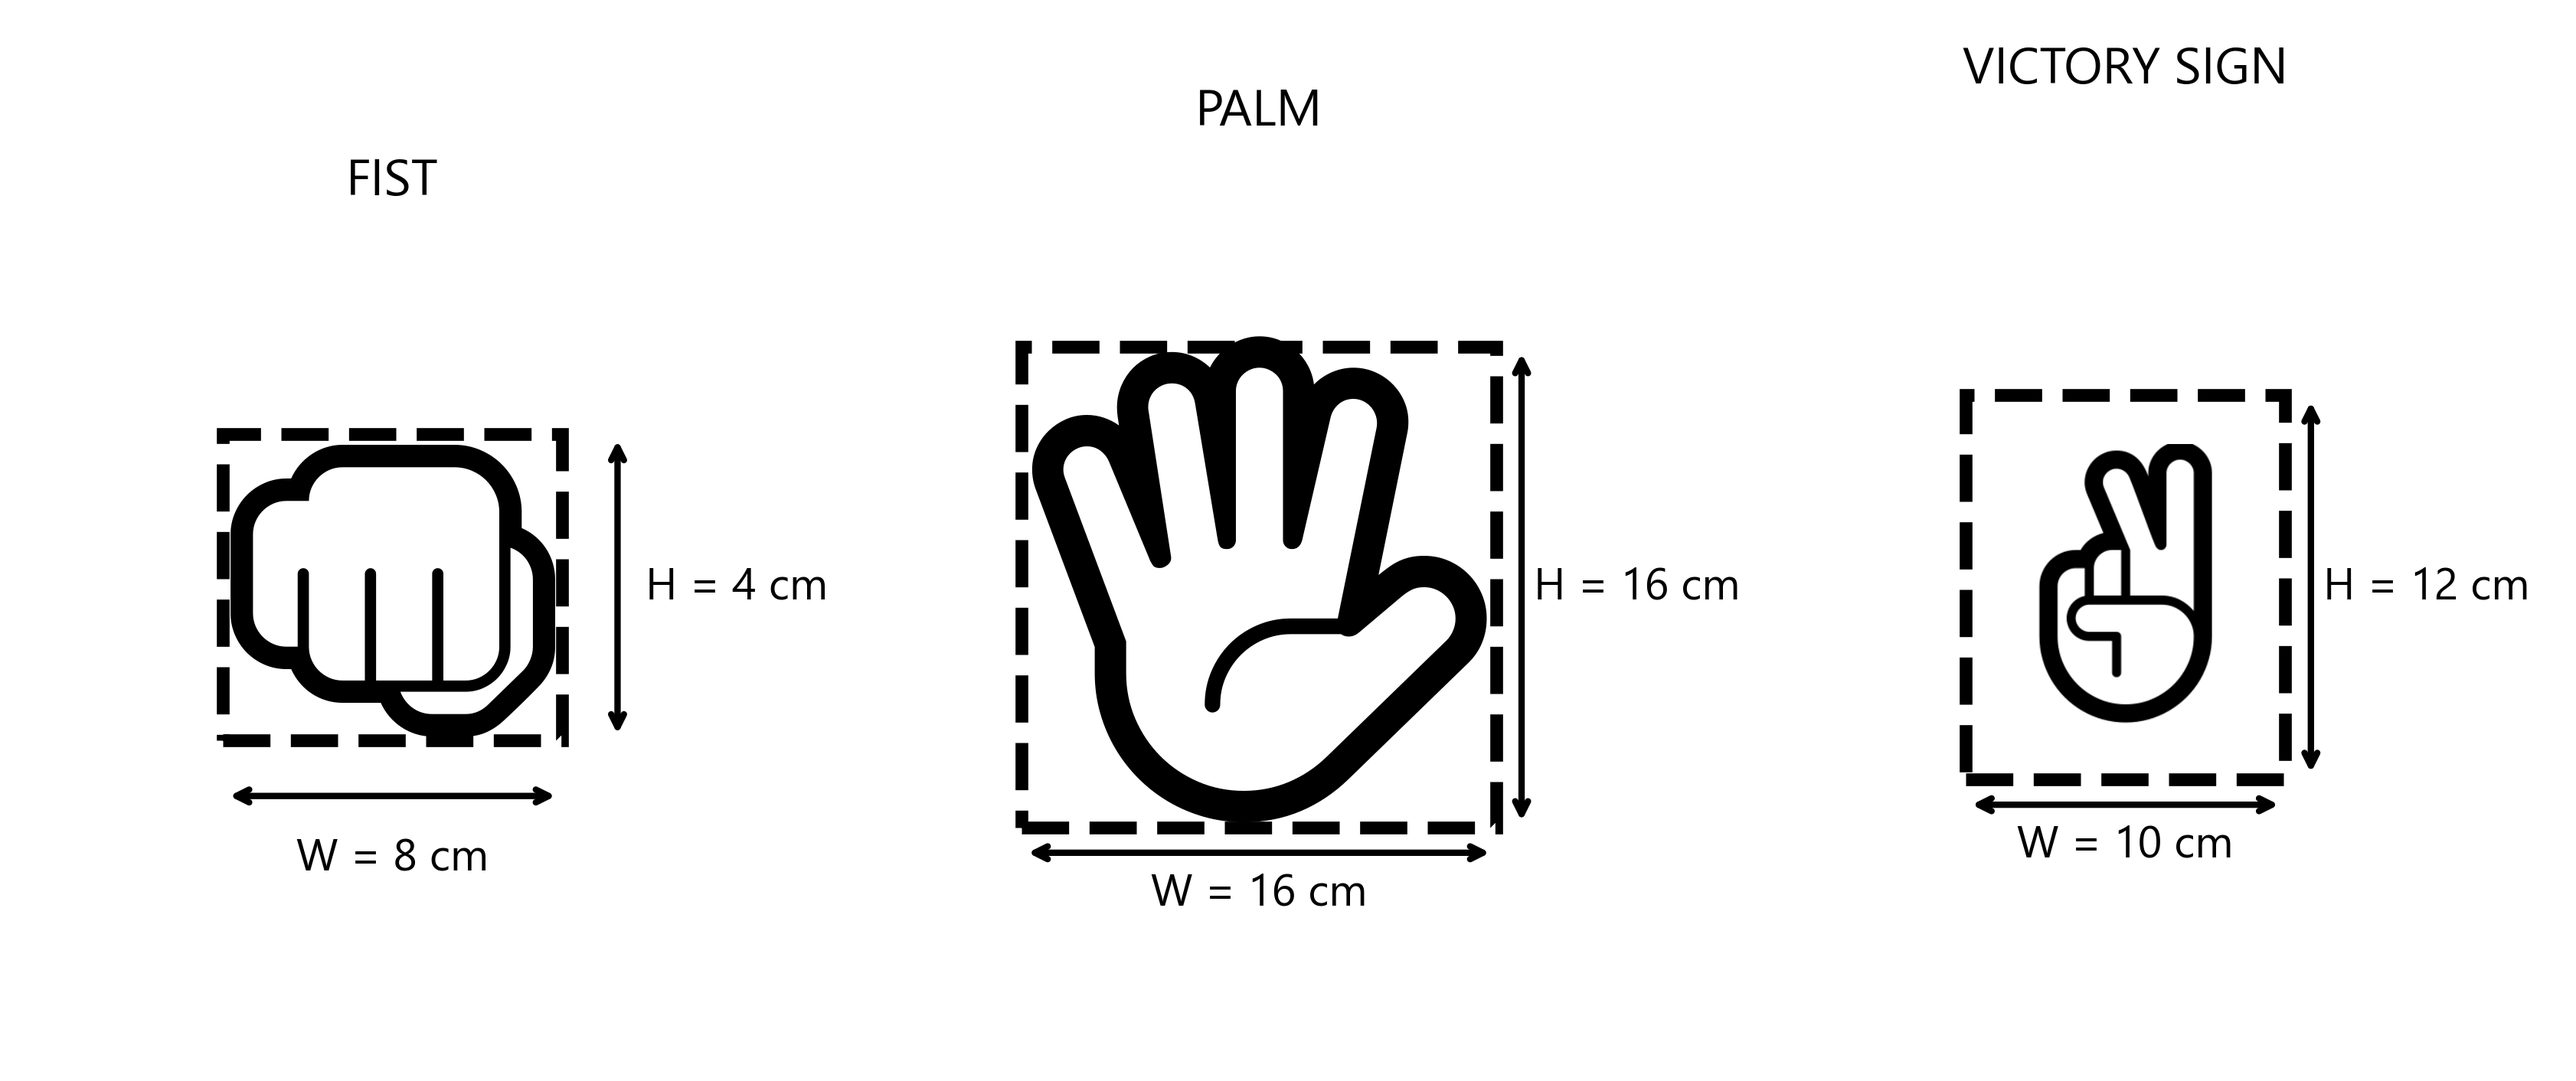
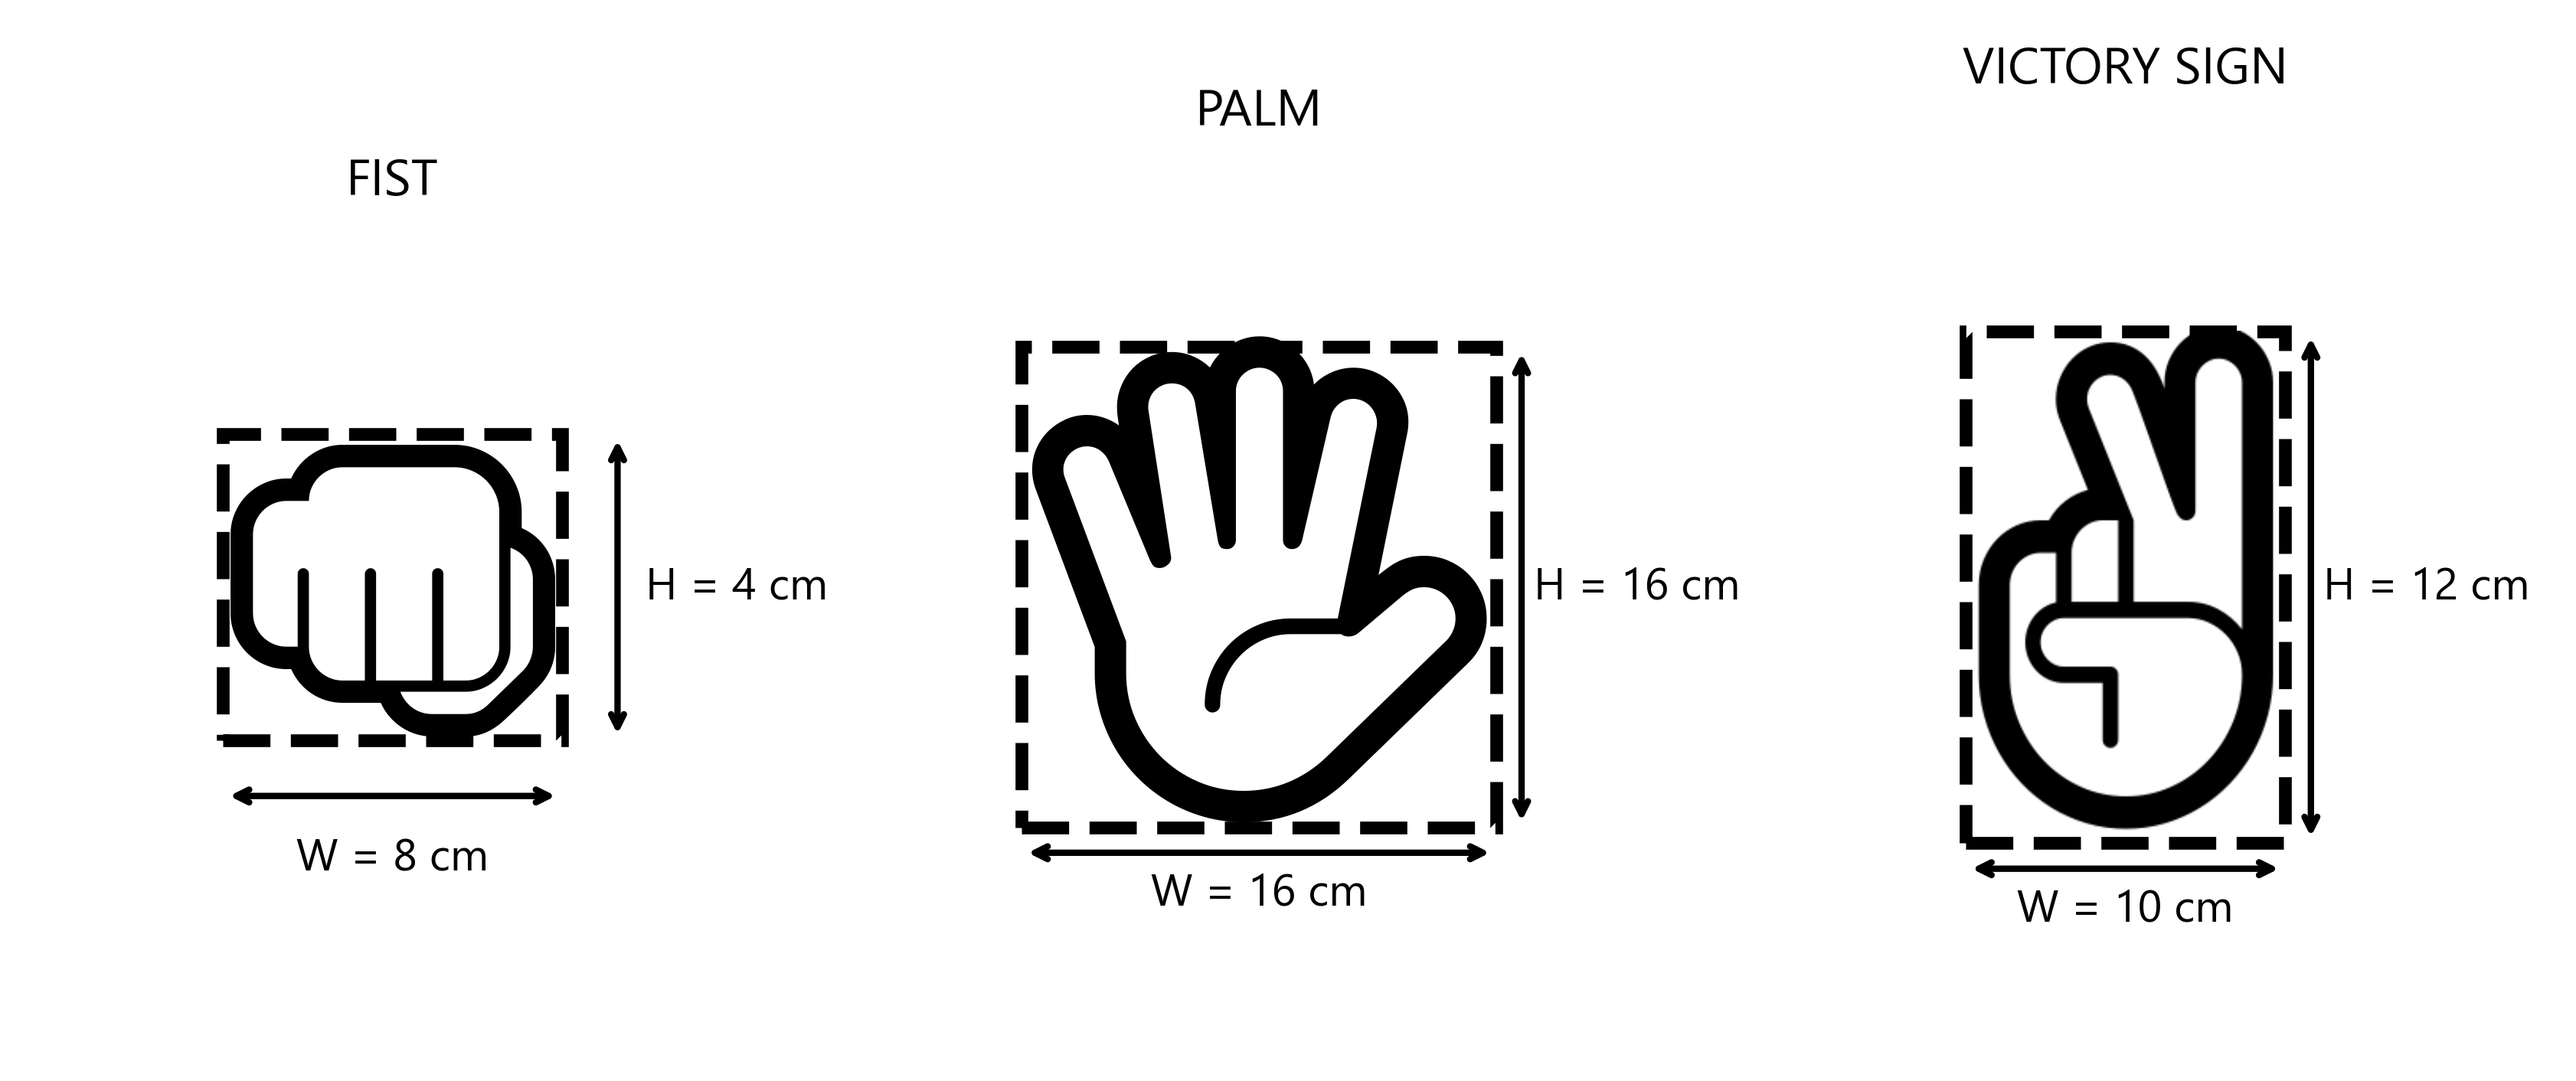
Finalize gesture analysis and report

Changed region(s): [[0.7491, 0.2805, 0.9052, 0.8414]]

diff --git a/generate_box_examples.py b/generate_box_examples.py
@@ -72,28 +72,17 @@ glyph_img = get_glyph_image('\u270C') # Use standard Victory Hand
 # Center at (10, 14). Box is 10x20.
 h_img, w_img = glyph_img.shape[:2]
 aspect = h_img / w_img
-
+    
 # Victory sign box (match labels and report)
 box_w = 10.0
-box_h = 12.0
-
-# Fit glyph naturally inside the box (no stretching)
-pad_frac = 0.05
-max_w = box_w * (1 - 2 * pad_frac)
-max_h = box_h * (1 - 2 * pad_frac)
-
-target_w = max_w
-target_h = target_w * aspect
-if target_h > max_h:
-    target_h = max_h
-    target_w = target_h / aspect
+box_h = 16.0
 
 # Center: x=10, y=14
 cx, cy = 10.0, 14.0
-x0 = cx - target_w / 2
-x1 = cx + target_w / 2
-y0 = cy + target_h / 2
-y1 = cy - target_h / 2
+x0 = cx - box_w / 1.3
+x1 = cx + box_w / 1.3
+y0 = cy + box_h / 2
+y1 = cy - box_h / 2
 
 ax3.imshow(glyph_img, extent=[x0, x1, y1, y0], aspect='equal', interpolation='bilinear')
 t3, w3, h3, title3 = None, '10', '12', 'VICTORY SIGN'
